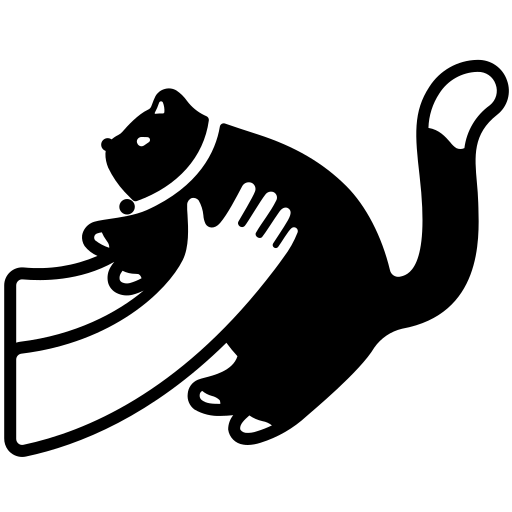
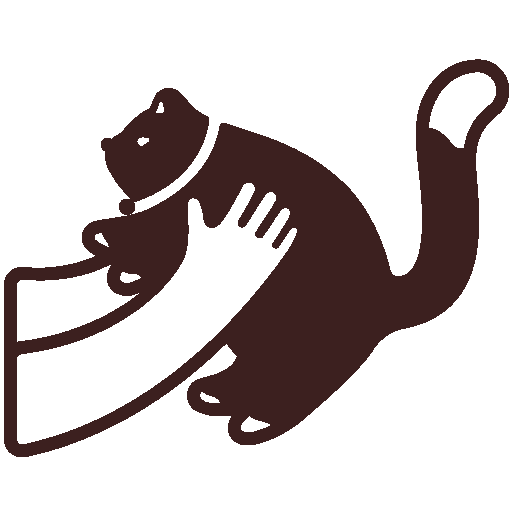
update all

Changed region(s): [[0.0, 0.0938, 1.0, 0.9062]]

diff --git a/index.html b/index.html
@@ -16,7 +16,7 @@
     <!-- >img[src="http://placekitten.com/300/300"]^ -->
     <header>
         <div class="container-fluid">
-            <div class="logo"><a href="index.html"></a></div>
+            <div class="logo"><a href="index.html"><img src="public/images/logo-04.png" alt=""></a></div>
             <div class="menu-icon"></div>
             <nav>
                 <ul id="pri-nav">
@@ -40,7 +40,6 @@
                 <h2>LOVE MO</h2>
                 <h3>關於樂毛</h3>
             </div>
-            <div class="imgbox mb-1"><img src="public/images/map.png" alt=""></div>
             <div class="txtbox mb-1">
                 <p>LOVEMO樂毛是一家專業的貓狗寵物美容沙龍，「以毛孩為主、讓毛孩快樂理髮美容」是樂毛最重要的理念。
                     為了實現這個理念，我們在許多方面都有高標準要求：</p>
@@ -76,18 +75,19 @@
         </div>
         <div class="container">
             <div class="box" id="serbox">
-                <div class="imgbox mb-1"><img src="public/images/service.jpg" alt=""></div>
+                <img src="public/images/service.jpg" alt="">
                 <div class="txtbox mb-1">
-                    <p>目前方案如下<br>
-                        (1) 洗澡<br>
-                        清耳朵、剪指甲、剃腳底毛、擠肛門腺。<br>
-                        (2)大美容<br>
-                        含以上洗澡項目、專業造型設計<br>
-                        (3)專業皮毛護理<br>
+                    <p>目前方案如下：<br><br>
+                        <span>(1) 洗澡：</span><br>
+                        清耳朵、剪指甲、剃腳底毛、擠肛門腺<br><br>
+                        <span>(2)大美容：</span><br>
+                        含以上洗澡項目、專業造型設計<br><br>
+                        <span>(3)專業皮毛護理：</span><br>
                         深層清潔牛奶浴<br>
                         促進血循美人湯<br>
                         海洋療法扶養泥<br>
-                    </p>
+                    </p><br>
+                    <p>洗澡約1Hr｜大美容約2Hr｜專業毛皮護理約2Hr<br>大型犬再加1Hr</p><br>
                 </div>
             </div>
             <button><a href="javascript:;">完整服務流程</a></button>
@@ -161,6 +161,9 @@
         </div>
     </section>
     <footer class="container-fluid">
+        <div class="imgbox mb-1"><iframe
+                src="https://www.google.com/maps/embed?pb=!1m18!1m12!1m3!1d3616.117192903861!2d121.54234981500558!3d24.996133483990157!2m3!1f0!2f0!3f0!3m2!1i1024!2i768!4f13.1!3m3!1m2!1s0x3442aa045bcc8117%3A0xeb3065c8b8333f8d!2sNo.%2060%2C%20Jingxing%20Rd%2C%20Wenshan%20District%2C%20Taipei%20City%2C%20116!5e0!3m2!1sen!2stw!4v1643079739185!5m2!1sen!2stw"
+                width="300" height="225" style="border:0;" allowfullscreen="" loading="lazy"></iframe></div>
         <ul>
             <li><a href=""><img src="public/images/fb.svg" alt=""></a></li>
             <li><a href=""><img src="public/images/ig.svg" alt=""></a></li>

diff --git a/public/css/index.css b/public/css/index.css
@@ -104,6 +104,7 @@ h2 {
     padding-bottom: 10px;
     font-weight: 100;
     line-height: 2.5rem;
+    color:#3c201f;
 }
 
 h3 {
@@ -135,7 +136,7 @@ header>.container {
     flex-wrap: wrap;
 }
 
-.logo {
+/* .logo {
     height: 60px;
     width: 70%;
     background-image: url(../images/lovemologo-web.svg);
@@ -146,6 +147,11 @@ header>.container {
 
 .logo>a{
     display: block;
+} */
+
+.logo img{
+    height: 50px;
+    padding:5px 0 0 10px;
 }
 
 .menu-icon {
@@ -217,17 +223,15 @@ nav a {
 
 
 /* 服務說明 */
+
 #serbox .txtbox {
     text-align: start;
 }
 
-#serbox .imgbox {
+#serbox img {
     width: 100%;
 }
 
-#serbox .imgbox>img {
-    width: 100%;
-}
 
 
 /* 美容小教室 */
@@ -313,13 +317,18 @@ button a::after {
         justify-content: space-between;
     }
 
-    .logo {
+    /* .logo {
         height: 90px;
         width: 30%;
         background-image: url(../images/lovemologo-web.svg);
         background-size: 90%;
         background-repeat: no-repeat;
         background-position: left center;
+    } */
+
+    .logo{
+        height: 80px;
+        padding: 10px 0 0 10px;
     }
 
     .menu-icon {
@@ -347,8 +356,16 @@ button a::after {
         justify-content: space-between;
     }
 
-    .lovemo .imgbox,.lovemo .txtbox {
+    /* .lovemo .imgbox,.lovemo .txtbox {
         max-width: 35%;
+    } */
+
+    /* .mapgroup{
+        display: flex;
+    } */
+
+    .txtbox{
+        width: 65%;
     }
     .featurebox>.container{
         align-items: center;
@@ -382,17 +399,13 @@ button a::after {
         justify-content: space-between;
     }
     #serbox .txtbox {
-        min-width: 45%;
+        width: 45%;
+        padding: 0 20px;
     }
 
-    #serbox .imgbox {
-        min-width: 45%;
+    #serbox img {
+        width: 50%;
     }
-
-    #serbox .imgbox>img {
-        min-width: 50%;
-    }
-
 
     #service{
         display: flex;
@@ -471,7 +484,7 @@ button a::after {
         border:none;
         background: transparent;
         cursor: pointer;
-        background-color: #373839;
+        background-color: #3c201f;
         color:white;
     }
     
@@ -725,4 +738,5 @@ span{
     .article-bt>.box1{
         text-align: end;
     
+}
 }

diff --git a/blog-article.html b/blog-article.html
@@ -13,7 +13,7 @@
 <body>
     <header>
         <div class="container-fluid">
-            <div class="logo"><a href="index.html"></a></div>
+            <div class="logo"><a href="index.html"><img src="public/images/logo-04.png" alt=""></a></div>
             <div class="menu-icon"></div>
             <nav>
                 <ul id="pri-nav">

diff --git a/blog.html b/blog.html
@@ -13,7 +13,7 @@
 <body>
     <header>
         <div class="container-fluid">
-            <div class="logo"><a href="index.html"></a></div>
+            <div class="logo"><a href="index.html"><img src="public/images/logo-04.png" alt=""></a></div>
             <div class="menu-icon"></div>
             <nav>
                 <ul id="pri-nav">

diff --git a/reservation.html b/reservation.html
@@ -13,7 +13,7 @@
 <body>
     <header>
         <div class="container-fluid">
-            <div class="logo"><a href="index.html"></a></div>
+            <div class="logo"><a href="index.html"><img src="public/images/logo-04.png" alt=""></a></div>
             <div class="menu-icon"></div>
             <nav>
                 <ul id="pri-nav">

diff --git a/service.html b/service.html
@@ -13,7 +13,7 @@
 <body>
     <header>
         <div class="container-fluid">
-            <div class="logo"><a href="index.html"></a></div>
+            <div class="logo"><a href="index.html"><img src="public/images/logo-04.png" alt=""></a></div>
             <div class="menu-icon"></div>
             <nav>
                 <ul id="pri-nav">
